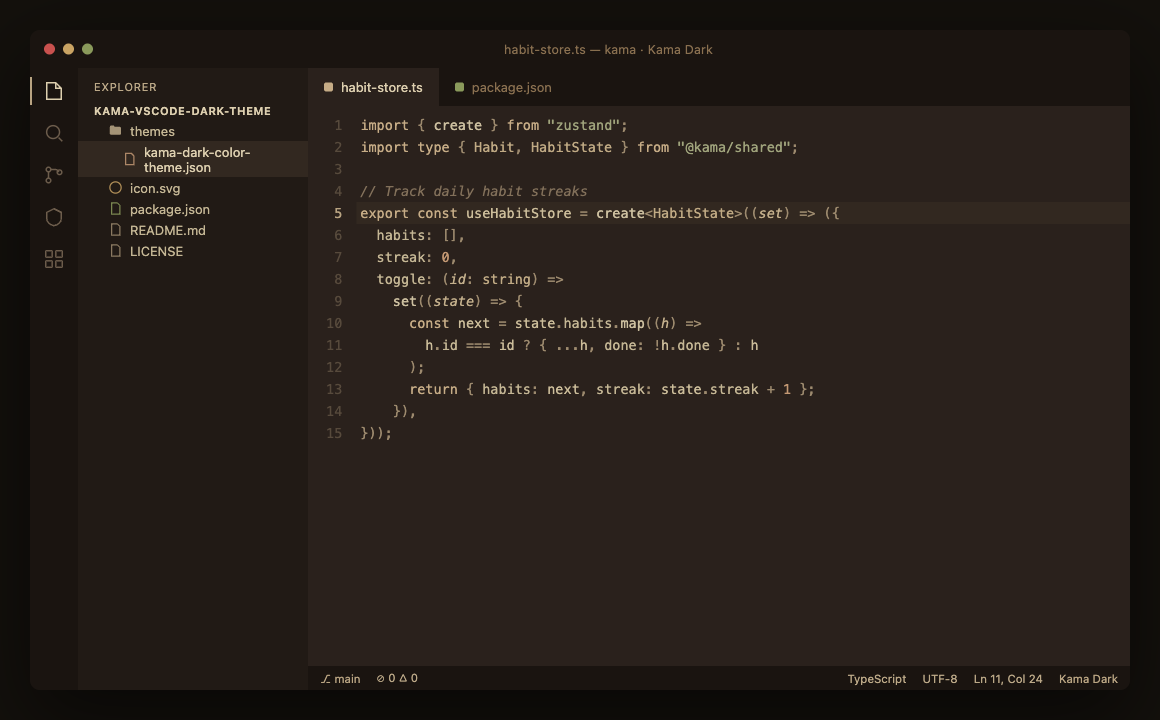
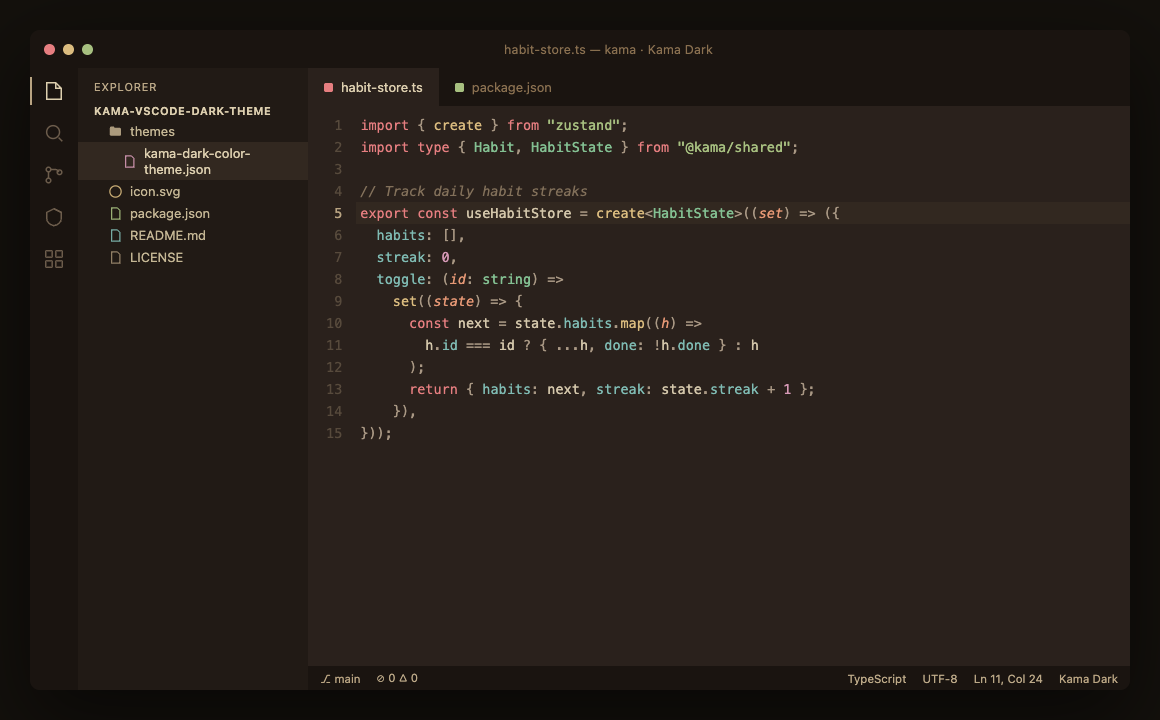
v1.1.0: vibrant warm syntax palette + stronger diffs
- Everforest-style multi-hue syntax (red keywords, green strings, gold
  functions, teal types, purple numbers, blue properties, orange params)
- Rainbow bracket pairs + brighter terminal ANSI palette
- More visible git decorations and gutter markers
- Two-layer diff backgrounds (line + changed text)
- Updated README preview screenshot

diff --git a/CHANGELOG.md b/CHANGELOG.md
@@ -1,5 +1,13 @@
 # Changelog
 
+## [1.1.0]
+
+- Vibrant warm syntax palette (Everforest-style): red keywords, green strings, gold functions, teal types, purple numbers, blue properties, orange parameters — more colorful while staying soft and warm.
+- Rainbow bracket-pair colors and a brighter 16-color terminal ANSI palette.
+- More visible git decorations (Explorer M/U/D) and editor gutter markers.
+- Stronger, two-layer diff editor backgrounds (line + changed-text) so diffs no longer blend into the background.
+- Updated README preview screenshot to match the new palette.
+
 ## [1.0.0]
 
 - Initial release of **Kama Dark**.